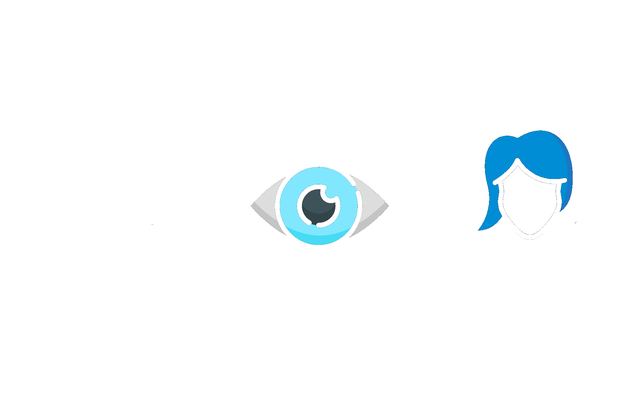
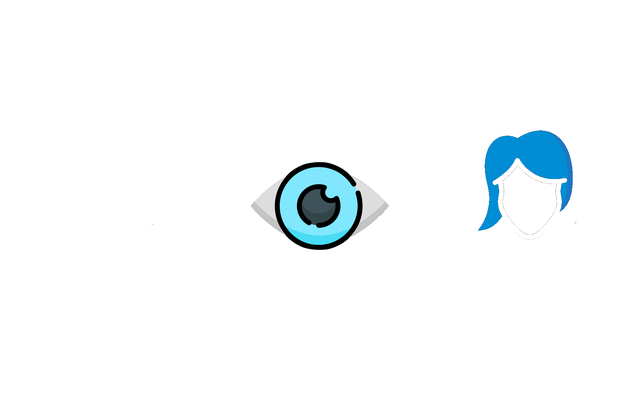
Modalities tile: the iris keeps its black outline

Changed region(s): [[0.4062, 0.39, 0.5938, 0.63]]

diff --git a/blog.html b/blog.html
@@ -115,7 +115,7 @@
 <div class="pad"><div class="meta">Sep 30, 2026 &middot; 6 min read</div><h3>Patient Identification in Hospitals: Duplicate Records, Impersonation and What Biometrics Changes</h3>
 <p>The wrong record, a duplicate record or a mixed one: why name search fails at the registration desk and what changes when the patient is the identifier.</p><span class="more">Read article &rarr;</span></div></a>
 <a class="card post-card" href="/post/biometric-authentication">
-<div class="pc-img"><img src="assets/img/blog/biometric-modalities-tile.png" alt="Fingerprint, iris and face icons" width="640" height="400" loading="lazy"></div>
+<div class="pc-img"><img src="assets/img/blog/biometric-modalities-tile.png?v=2" alt="Fingerprint, iris and face icons" width="640" height="400" loading="lazy"></div>
 <div class="pad"><div class="meta">Sep 21, 2026 &middot; 4 min read</div><h3>Biometric Authentication: Modalities, Templates and Lock-in</h3>
 <p>Face, fingerprint and iris, what a template is, and why its format matters.</p><span class="more">Read article &rarr;</span></div></a>
 <a class="card post-card" href="/post/demystifying-biometric-security-what-is-iris-scanning">
